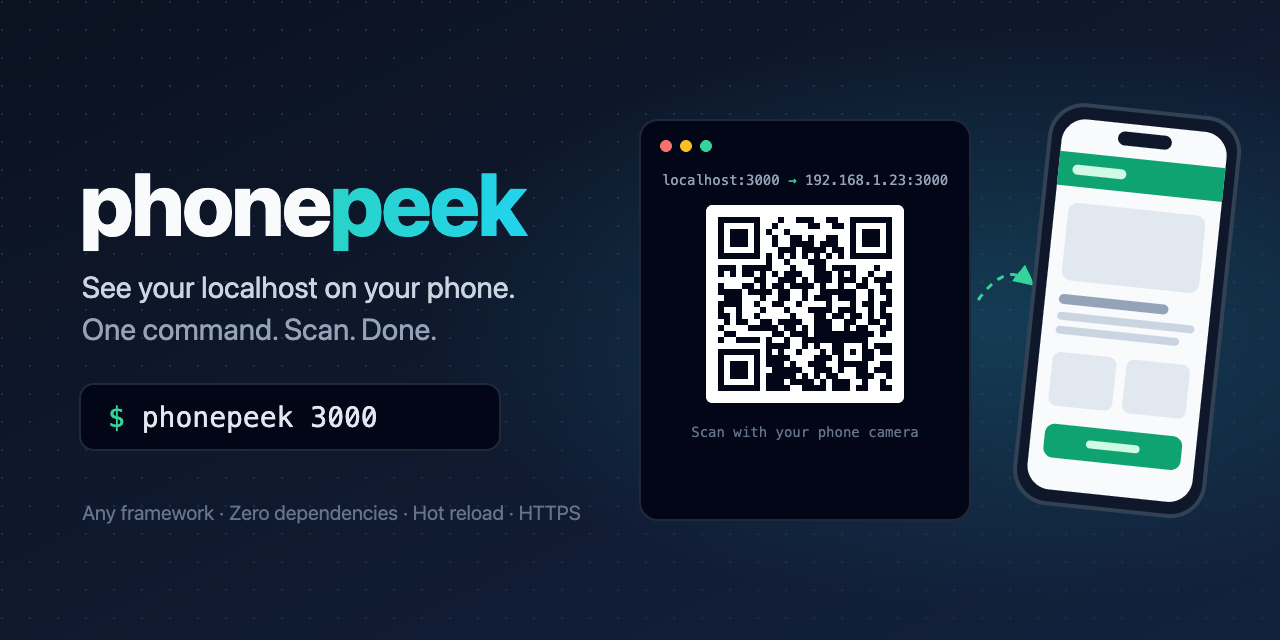
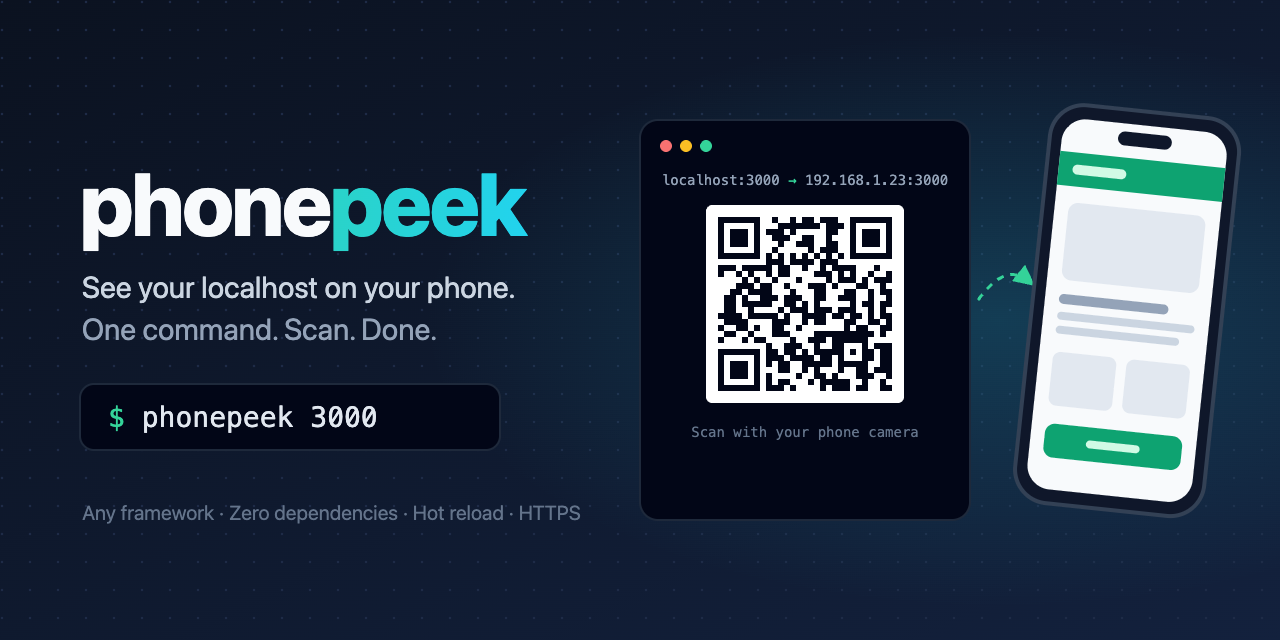
v0.2.1: move to the phonepeek organization
- All links now point to github.com/phonepeek/phonepeek (old links redirect)
- Banner and share image QR code open the new address
- Releases are built and signed by phonepeek/phonepeek

Changed region(s): [[0.5625, 0.3438, 0.6562, 0.625]]

diff --git a/phonepeek.js b/phonepeek.js
@@ -364,7 +364,7 @@ function wifiIsOpen(platform = process.platform) {
   }));
 }
 
-const VERSION = '0.2.0';
+const VERSION = '0.2.1';
 
 const USAGE = `Usage: phonepeek [port] [--https]
 

diff --git a/README.md b/README.md
@@ -10,7 +10,7 @@
 </p>
 
 <p align="center">
-  <a href="https://github.com/nkechr1s/phonepeek/actions/workflows/ci.yml"><img src="https://github.com/nkechr1s/phonepeek/actions/workflows/ci.yml/badge.svg" alt="CI"></a>
+  <a href="https://github.com/phonepeek/phonepeek/actions/workflows/ci.yml"><img src="https://github.com/phonepeek/phonepeek/actions/workflows/ci.yml/badge.svg" alt="CI"></a>
   <a href="LICENSE"><img src="https://img.shields.io/badge/license-MIT-blue.svg" alt="MIT license"></a>
   <img src="https://img.shields.io/badge/dependencies-0-brightgreen.svg" alt="zero dependencies">
   <img src="https://img.shields.io/badge/node-%E2%89%A520-green.svg" alt="Node 20+">
@@ -24,40 +24,40 @@ Testing a site on a real phone usually means deploying it or fiddling with `--ho
 ## Install
 
 ```sh
-curl -fsSL https://github.com/nkechr1s/phonepeek/releases/latest/download/install.sh | sh
+curl -fsSL https://github.com/phonepeek/phonepeek/releases/latest/download/install.sh | sh
 ```
 
-Needs Node.js 20+. Installs one file to `~/.local/bin/phonepeek` (override with `PHONEPEEK_DIR`), only from a [tagged release](https://github.com/nkechr1s/phonepeek/releases), and only if its SHA-256 checksum matches. Pin a version with `PHONEPEEK_VERSION=v0.2.0`.
+Needs Node.js 20+. Installs one file to `~/.local/bin/phonepeek` (override with `PHONEPEEK_DIR`), only from a [tagged release](https://github.com/phonepeek/phonepeek/releases), and only if its SHA-256 checksum matches. Pin a version with `PHONEPEEK_VERSION=v0.2.0`.
 
 Prefer to look first? Download, read, then run:
 
 ```sh
-curl -fsSLO https://github.com/nkechr1s/phonepeek/releases/latest/download/install.sh
+curl -fsSLO https://github.com/phonepeek/phonepeek/releases/latest/download/install.sh
 less install.sh && sh install.sh
 ```
 
-**Windows:** download `phonepeek.js` from the [latest release](https://github.com/nkechr1s/phonepeek/releases/latest) and run `node phonepeek.js 8000`.
+**Windows:** download `phonepeek.js` from the [latest release](https://github.com/phonepeek/phonepeek/releases/latest) and run `node phonepeek.js 8000`.
 
 **Update:** run the install command again. **Uninstall:** `rm ~/.local/bin/phonepeek` (and `rm -r ~/.phonepeek` for HTTPS certificates).
 
 ## Official source
 
-This repository, **[github.com/nkechr1s/phonepeek](https://github.com/nkechr1s/phonepeek)**, is the original and only official phonepeek. Official versions come only from:
+This repository, **[github.com/phonepeek/phonepeek](https://github.com/phonepeek/phonepeek)**, is the original and only official phonepeek. Official versions come only from:
 
-- the install command above, which downloads from this repository's [releases](https://github.com/nkechr1s/phonepeek/releases)
-- the [releases page](https://github.com/nkechr1s/phonepeek/releases) itself
+- the install command above, which downloads from this repository's [releases](https://github.com/phonepeek/phonepeek/releases)
+- the [releases page](https://github.com/phonepeek/phonepeek/releases) itself
 
 phonepeek is **not on npm yet**, nor on Homebrew, PyPI or any other package manager, app store or website. A "phonepeek" from anywhere else is not ours, even if its code or README looks identical, and it may contain malicious software.
 
 **Check that your copy is genuine.** Every official release is built by GitHub from this repository and carries a signed build record that a copy cannot fake:
 
 ```sh
-gh attestation verify ~/.local/bin/phonepeek --repo nkechr1s/phonepeek
+gh attestation verify ~/.local/bin/phonepeek --repo phonepeek/phonepeek
 ```
 
 If this fails, delete that copy and install from the command above.
 
-Found a copy pretending to be phonepeek? Please [report it privately](https://github.com/nkechr1s/phonepeek/security/advisories/new).
+Found a copy pretending to be phonepeek? Please [report it privately](https://github.com/phonepeek/phonepeek/security/advisories/new).
 
 ## Usage
 
@@ -78,7 +78,7 @@ Add the phonepeek skill, and Claude Code (or any agent that supports [skills](sk
 
 ```sh
 mkdir -p ~/.claude/skills/phonepeek
-curl -fsSL https://raw.githubusercontent.com/nkechr1s/phonepeek/main/skills/phonepeek/SKILL.md -o ~/.claude/skills/phonepeek/SKILL.md
+curl -fsSL https://raw.githubusercontent.com/phonepeek/phonepeek/main/skills/phonepeek/SKILL.md -o ~/.claude/skills/phonepeek/SKILL.md
 ```
 
 It's one short Markdown file: [read it](skills/phonepeek/SKILL.md) before adding it.
@@ -132,7 +132,7 @@ You can skip installing it and tap through the "not private" warning instead, bu
 
 ## Is it safe?
 
-Don't take our word for it. Every claim below is checked by an automated test that runs on Linux, macOS and Windows for every change ([CI](https://github.com/nkechr1s/phonepeek/actions/workflows/ci.yml)).
+Don't take our word for it. Every claim below is checked by an automated test that runs on Linux, macOS and Windows for every change ([CI](https://github.com/phonepeek/phonepeek/actions/workflows/ci.yml)).
 
 | Claim | Proof |
 |---|---|
@@ -151,7 +151,7 @@ And things you can check yourself in a minute:
 - **Releases are built by GitHub, not on someone's laptop.** Each release is built from a tagged commit by [this workflow](.github/workflows/release.yml), after all tests pass, with a signed [build provenance attestation](https://docs.github.com/actions/security-guides/using-artifact-attestations). Verify your copy:
 
   ```sh
-  gh attestation verify ~/.local/bin/phonepeek --repo nkechr1s/phonepeek
+  gh attestation verify ~/.local/bin/phonepeek --repo phonepeek/phonepeek
   ```
 
 Details, known limits and how to report a vulnerability: [SECURITY.md](SECURITY.md).

diff --git a/skills/phonepeek/SKILL.md b/skills/phonepeek/SKILL.md
@@ -5,7 +5,7 @@ description: Open the user's local dev server on their phone with a QR code (pho
 
 # phonepeek
 
-[phonepeek](https://github.com/nkechr1s/phonepeek) shows a local dev server on a phone on the same Wi-Fi. It prints a QR code with a private link: only the browser that opens it gets in, so nothing else on the network can reach the app.
+[phonepeek](https://github.com/phonepeek/phonepeek) shows a local dev server on a phone on the same Wi-Fi. It prints a QR code with a private link: only the browser that opens it gets in, so nothing else on the network can reach the app.
 
 ## 1. Make sure it's installed
 
@@ -16,7 +16,7 @@ command -v phonepeek && phonepeek --version
 If it's missing, **ask the user before installing**, then use the verified installer (it installs from a tagged release only if the SHA-256 checksum matches):
 
 ```sh
-curl -fsSL https://github.com/nkechr1s/phonepeek/releases/latest/download/install.sh | sh
+curl -fsSL https://github.com/phonepeek/phonepeek/releases/latest/download/install.sh | sh
 ```
 
 It needs Node.js 20+. Don't install it any other way.

diff --git a/CHANGELOG.md b/CHANGELOG.md
@@ -1,7 +1,9 @@
 # Changelog
 
-## Unreleased
+## 0.2.1
 
+- phonepeek moved to the **[phonepeek](https://github.com/phonepeek) organization**: [github.com/phonepeek/phonepeek](https://github.com/phonepeek/phonepeek). Old links redirect.
+- Releases are now built and signed by `phonepeek/phonepeek`. Verify with `gh attestation verify ~/.local/bin/phonepeek --repo phonepeek/phonepeek` (v0.2.0's build record names the old address).
 - `skills/phonepeek/SKILL.md`: a skill so AI coding agents (Claude Code and others) can run phonepeek for you.
 - `AGENTS.md` / `CLAUDE.md`: project rules for AI agents working on the repo.
 

diff --git a/CONTRIBUTING.md b/CONTRIBUTING.md
@@ -3,7 +3,7 @@
 Thanks for helping! phonepeek has two rules: **one file** (`phonepeek.js`) and **zero dependencies**. That's what keeps it easy to read and verify.
 
 ```sh
-git clone https://github.com/nkechr1s/phonepeek
+git clone https://github.com/phonepeek/phonepeek
 cd phonepeek
 node --test             # all tests
 node phonepeek.js 8000  # try it on a local server

diff --git a/SECURITY.md b/SECURITY.md
@@ -29,4 +29,4 @@ Run them all with `node --test`.
 
 ## Reporting a vulnerability
 
-Please use GitHub's private [security advisory form](https://github.com/nkechr1s/phonepeek/security/advisories/new) instead of a public issue.
+Please use GitHub's private [security advisory form](https://github.com/phonepeek/phonepeek/security/advisories/new) instead of a public issue.
